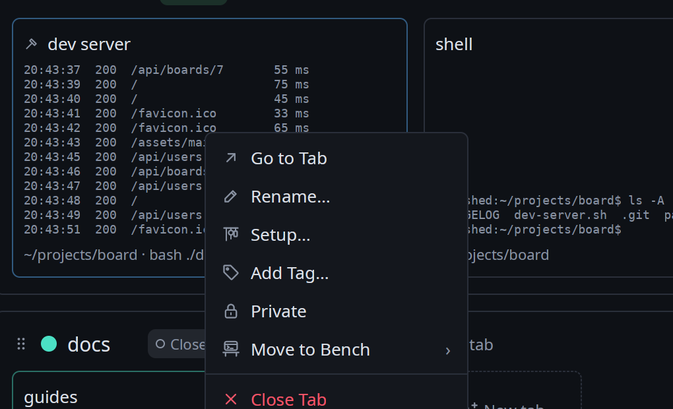
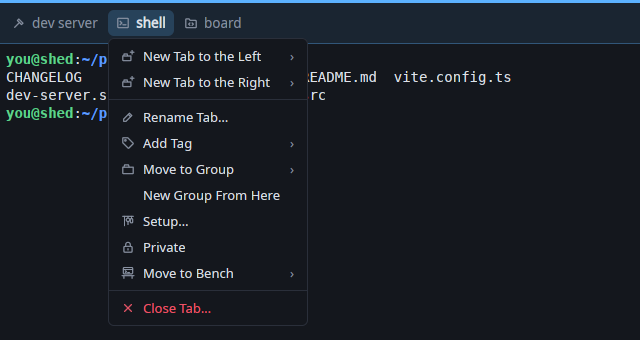
Screenshots of shed tui, the web app and the Android app; the tab menu retaken
- tools/screenshots/take.sh also opens a tab's menu with Shift+F10 and
  drills into New Tab to the Right › New AI Tab (tab-menu.png retaken,
  menu-drill.png new), and shows shed tui in a kitty on its display
  (tui.png; skipped without kitty).
- tools/screenshots/web.mjs: the web app against the mock, in a headless
  Chrome of its own: the overview, an AI tab, a terminal, and the AI tab at
  a phone's size (docs/images/web/).
- docs/images/android/: four of the Android screen tests' pictures and a
  strip of three, reduced to 256 colours.
- Development says how each set is made, and to commit only pictures that
  changed for a reason.

diff --git a/docs/development.md b/docs/development.md
@@ -233,13 +233,27 @@ project and AI tabs and bookmarks, a made-up Claude Code session in the demo hom
 runs a separate Shed in it on a virtual X display of its own (Xvfb, at 2× density,
 with Mesa's software Vulkan), and writes the screenshots in `docs/images/`. Nothing
 shows on your screen and your input is untouched, so it can run while you work.
-Panels are opened with keys sent to that display only (`xtype.py`); the mouse does
-not reach GPUI there (Xvfb has no XInput pointer of its own), so the two menu
-screenshots (`colours.png`, `tab-menu.png`) are not retaken. Needs Xvfb (`XVFB=`
+Panels and menus are opened with keys sent to that display only (`xtype.py`;
+a tab's menu with Shift+F10, typing to narrow it); the mouse does not reach
+GPUI there (Xvfb has no XInput pointer of its own), so `colours.png`, which
+needs a click, is not retaken. `tui.png` is `shed tui` in a kitty on the same
+display (skipped without kitty). Needs Xvfb (`XVFB=`
 its path when not installed: `apt-get download xvfb` and `dpkg-deb -x` give one
 without root), `xrdb`, `xwininfo`, `xwd`, `ffmpeg` and Python's PIL. Run it from the
 repository root after `cargo build` (`SHED_BIN=` a `shed` built elsewhere, with its
-`shedd` beside it).
+`shedd` beside it). It rewrites every picture; commit only those that changed
+for a reason (clocks and timings in them differ on every run).
+
+The web app's (`docs/images/web/`): start the mock and the app (`npm run mock`
+and `npm start` in `web/`), then `node tools/screenshots/web.mjs` signs in to
+the mock in a headless Chrome of its own (`tools/e2e/cdp.mjs`) and takes the
+overview, an AI tab and a terminal at 1280×800, and the AI tab at a phone's
+size. The Android app's (`docs/images/android/`) come from its screen tests
+(`-Pshed.screenshots=DIR`, see [The Android app](#the-android-app)): `ai`,
+`ai-agent`, `ai-settings` and `terminal` are `ai-open-dark`,
+`ai-agent-sheet-dark`, `ai-settings-dark` and `terminal-select-dark` scaled to
+480 pixels wide, and `phone.png` three of them side by side, reduced to 256
+colours to keep them small.
 
 `cargo run -p shed-desktop --example icon_preview -- sheet.png [template.svg]` draws a
 sheet of the bench icon in every colour, at launcher and Dock sizes, on dark and
